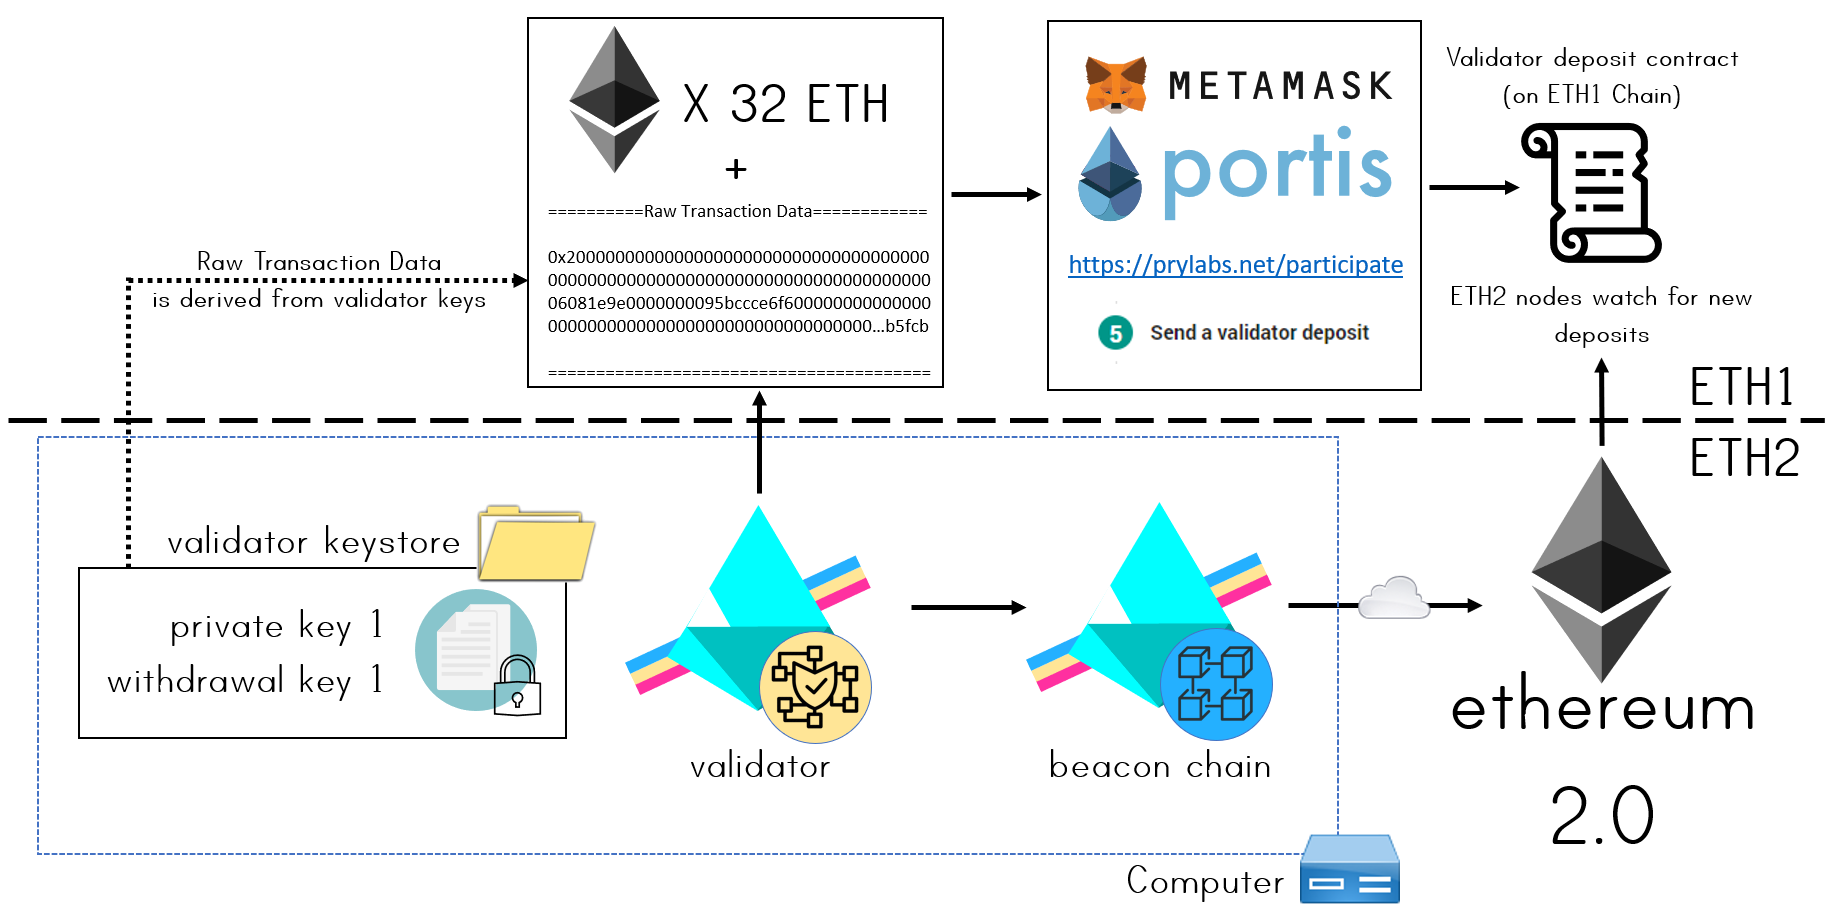
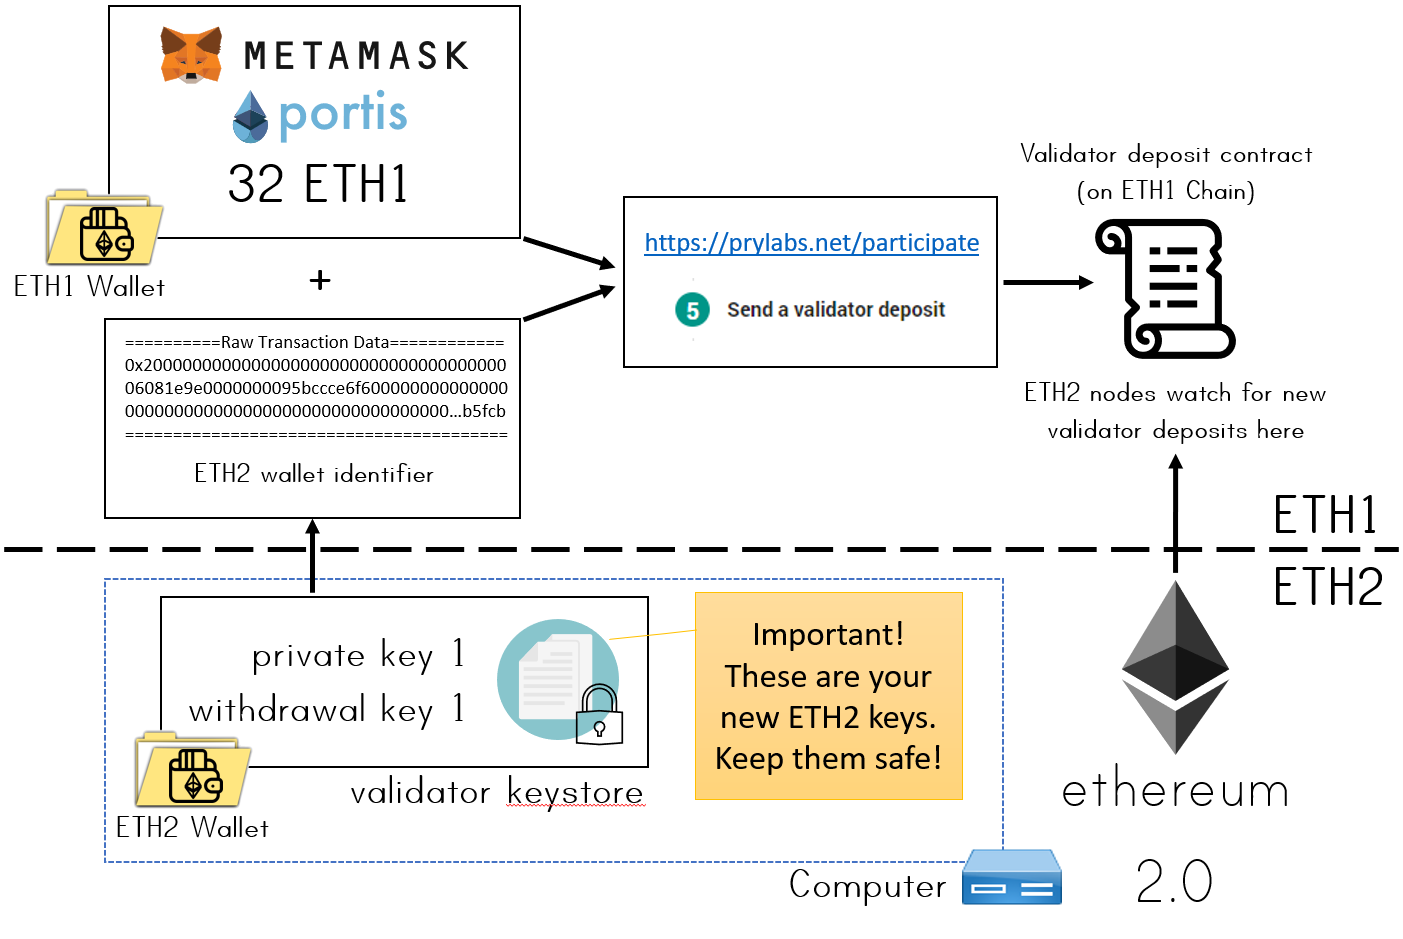
New deposit graphic for activating-a-validator

diff --git a/docs/install/lin/activating-a-validator.md b/docs/install/lin/activating-a-validator.md
@@ -5,7 +5,7 @@ sidebar_label: Activate a validator
 ---
 This section outlines the step-by-step process for GNU/Linux found on prylabs.net to submit a deposit and initialise a validator for participation in the testnet.
 
-![Prysm Single Validator Key Setup](/img/prysm-single-key.png)
+![ETH1 Deposit Overview](/img/prysm-eth1-deposit.png)
 
 ## Step 1: Get Prysm
 
@@ -19,6 +19,8 @@ You will be asked to link a wallet address to your validator with either the [Me
 The wallet is scanned for the required amount of Göerli ETH after being linked. If the wallet does not have sufficient funds, you will be given the option to receive the required GöETH from our faucet.
 
 ## Step 3a: Generating a validator keypair
+
+![Prysm Single Validator Key Setup](/img/prysm-single-key.png)
 
 Depending on your platform, issue the appropriate command from the examples below to generate a public / private keypair for your validator.
 

diff --git a/docs/install/mac/activating-a-validator.md b/docs/install/mac/activating-a-validator.md
@@ -5,7 +5,7 @@ sidebar_label: Activate a validator
 ---
 This section outlines the step-by-step process for MacOS found on prylabs.net to submit a deposit and initialise a validator for participation in the testnet.
 
-![Prysm Single Validator Key Setup](/img/prysm-single-key.png)
+![ETH1 Deposit Overview](/img/prysm-eth1-deposit.png)
 
 ## Step 1: Get Prysm
 
@@ -19,6 +19,8 @@ You will be asked to link a wallet address to your validator with either the [Me
 The wallet is scanned for the required amount of Göerli ETH after being linked. If the wallet does not have sufficient funds, you will be given the option to receive the required GöETH from our faucet.
 
 ## Step 3a: Generating a validator keypair
+
+![Prysm Single Validator Key Setup](/img/prysm-single-key.png)
 
 Depending on your platform, issue the appropriate command from the examples below to generate a public / private keypair for your validator.  
 

diff --git a/docs/install/win/activating-a-validator.md b/docs/install/win/activating-a-validator.md
@@ -5,7 +5,7 @@ sidebar_label: Activate a validator
 ---
 This section outlines the step-by-step process for Windows found on prylabs.net to submit a deposit and initialise a validator for participation in the testnet.
 
-![Prysm Single Validator Key Setup](/img/prysm-single-key.png)
+![ETH1 Deposit Overview](/img/prysm-eth1-deposit.png)
 
 ## Step 1: Get Prysm
 
@@ -20,6 +20,8 @@ You will be asked to link a wallet address to your validator with either the [Me
 The wallet is scanned for the required amount of Göerli ETH after being linked. If the wallet does not have sufficient funds, you will be given the option to receive the required GöETH from our faucet.
 
 ## Step 3a: Generating a validator keypair
+
+![Prysm Single Validator Key Setup](/img/prysm-single-key.png)
 
 Depending on your platform, issue the appropriate command from the examples below to generate a public / private keypair for your validator.
 

diff --git a/docs/install/arm/activating-a-validator.md b/docs/install/arm/activating-a-validator.md
@@ -5,7 +5,7 @@ sidebar_label: Activate a validator
 ---
 This section outlines the step-by-step process for ARM64 found on prylabs.net to submit a deposit and initialise a validator for participation in the testnet.
 
-![Prysm Single Validator Key Setup](/img/prysm-single-key.png)
+![ETH1 Deposit Overview](/img/prysm-eth1-deposit.png)
 
 ## Step 1: Get Prysm
 
@@ -20,6 +20,8 @@ You will be asked to link a wallet address to your validator with either the [Me
 The wallet is scanned for the required amount of Göerli ETH after being linked. If the wallet does not have sufficient funds, you will be given the option to receive the required GöETH from our faucet.
 
 ## Step 3a: Generating a validator keypair
+
+![Prysm Single Validator Key Setup](/img/prysm-single-key.png)
 
 Depending on your platform, issue the appropriate command from the examples below to generate a public / private keypair for your validator.
 
